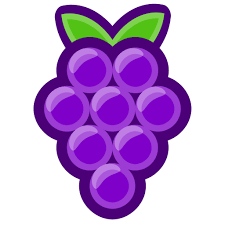
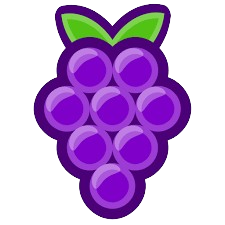
Добавил загрузку товаров из файла list_products.txt; Удалил товары из файл kv; Создал отдельный файл resources.py для хрананения путей к картинкам; изменил цвет текстових меток

diff --git a/main.py b/main.py
@@ -1,16 +1,24 @@
+import os
 from settings import*
+from resources import*
 from kivy.app import App
 from kivy.uix.button import Button
 from kivy.uix.label import Label
 from kivy.uix.boxlayout import BoxLayout
+from kivy.uix.gridlayout import GridLayout
+from kivy.graphics import Color, RoundedRectangle
 from kivy.uix.image import Image
 from kivy.uix.screenmanager import ScreenManager, Screen
+from kivy.metrics import dp
 from kivy.core.window import Window 
 
-    
 
 class BoxRow(BoxLayout):
-    ...    
+    pass  
+
+
+class MainLabel(Label):
+    pass
 
 
 class MenuScreen(Screen):
@@ -22,20 +30,38 @@ class MenuScreen(Screen):
 class MainScreen(Screen):
     def __init__(self, **kw):
         super().__init__(**kw)
-        pass
+        self.load_products()
 
     def on_kv_post(self, base_widget):
-
         self.ids.main_container.add_widget(BoxRow())
 
         return super().on_kv_post(base_widget)
-     
+
+    def load_products(self):
+        with open(PATH, "r", encoding = "utf8") as file:    
+            lines = file.readlines()
+        gl = GridLayout(orientation = 'lr-tb', cols = 1, padding = '20dp', spacing = '10dp')
+        
+        for e in lines:
+            space = e.find(" ")
+            product = e[0:space]
+            weight = e[space + 1:-1]
+            
+            bl = BoxLayout(size_hint_y = None, height = dp(50), spacing = '10dp')
+            bl.add_widget(MainLabel(text = product))
+            bl.add_widget(MainLabel(text = weight))
+            bl.add_widget(Image(source = RESOURCES[product]))
+            gl.add_widget(bl)
+
+        self.ids.main_container.add_widget(gl)
+            
     def goto_main(self):
         self.manager.current = "menu"
         self.manager.transition.direction = "up"
         
 
 class CompositionApp(App):
+    resources = RESOURCES
     def build(self):
         scr_sm = ScreenManager()
         scr_sm.add_widget(MenuScreen(name = "menu"))

diff --git a/resources.py b/resources.py
@@ -1,0 +1,8 @@
+RESOURCES = {
+"яблоко": "assets/images/apple.png",
+"банан": "assets/images/banana.png",
+"виноград": "assets/images/grepes.png",
+"ананас": "assets/images/pineapple.png",
+"клубника": "assets/images/strawberry.png",
+"арбуз": "assets/images/watermelon.png",
+}

diff --git a/settings.py b/settings.py
@@ -1,0 +1,1 @@
+PATH = 'C:\\Users\\Админ\\Downloads\\Давидик\\Project\\python_pro\\project_composition\\assets\\list_products.txt'
